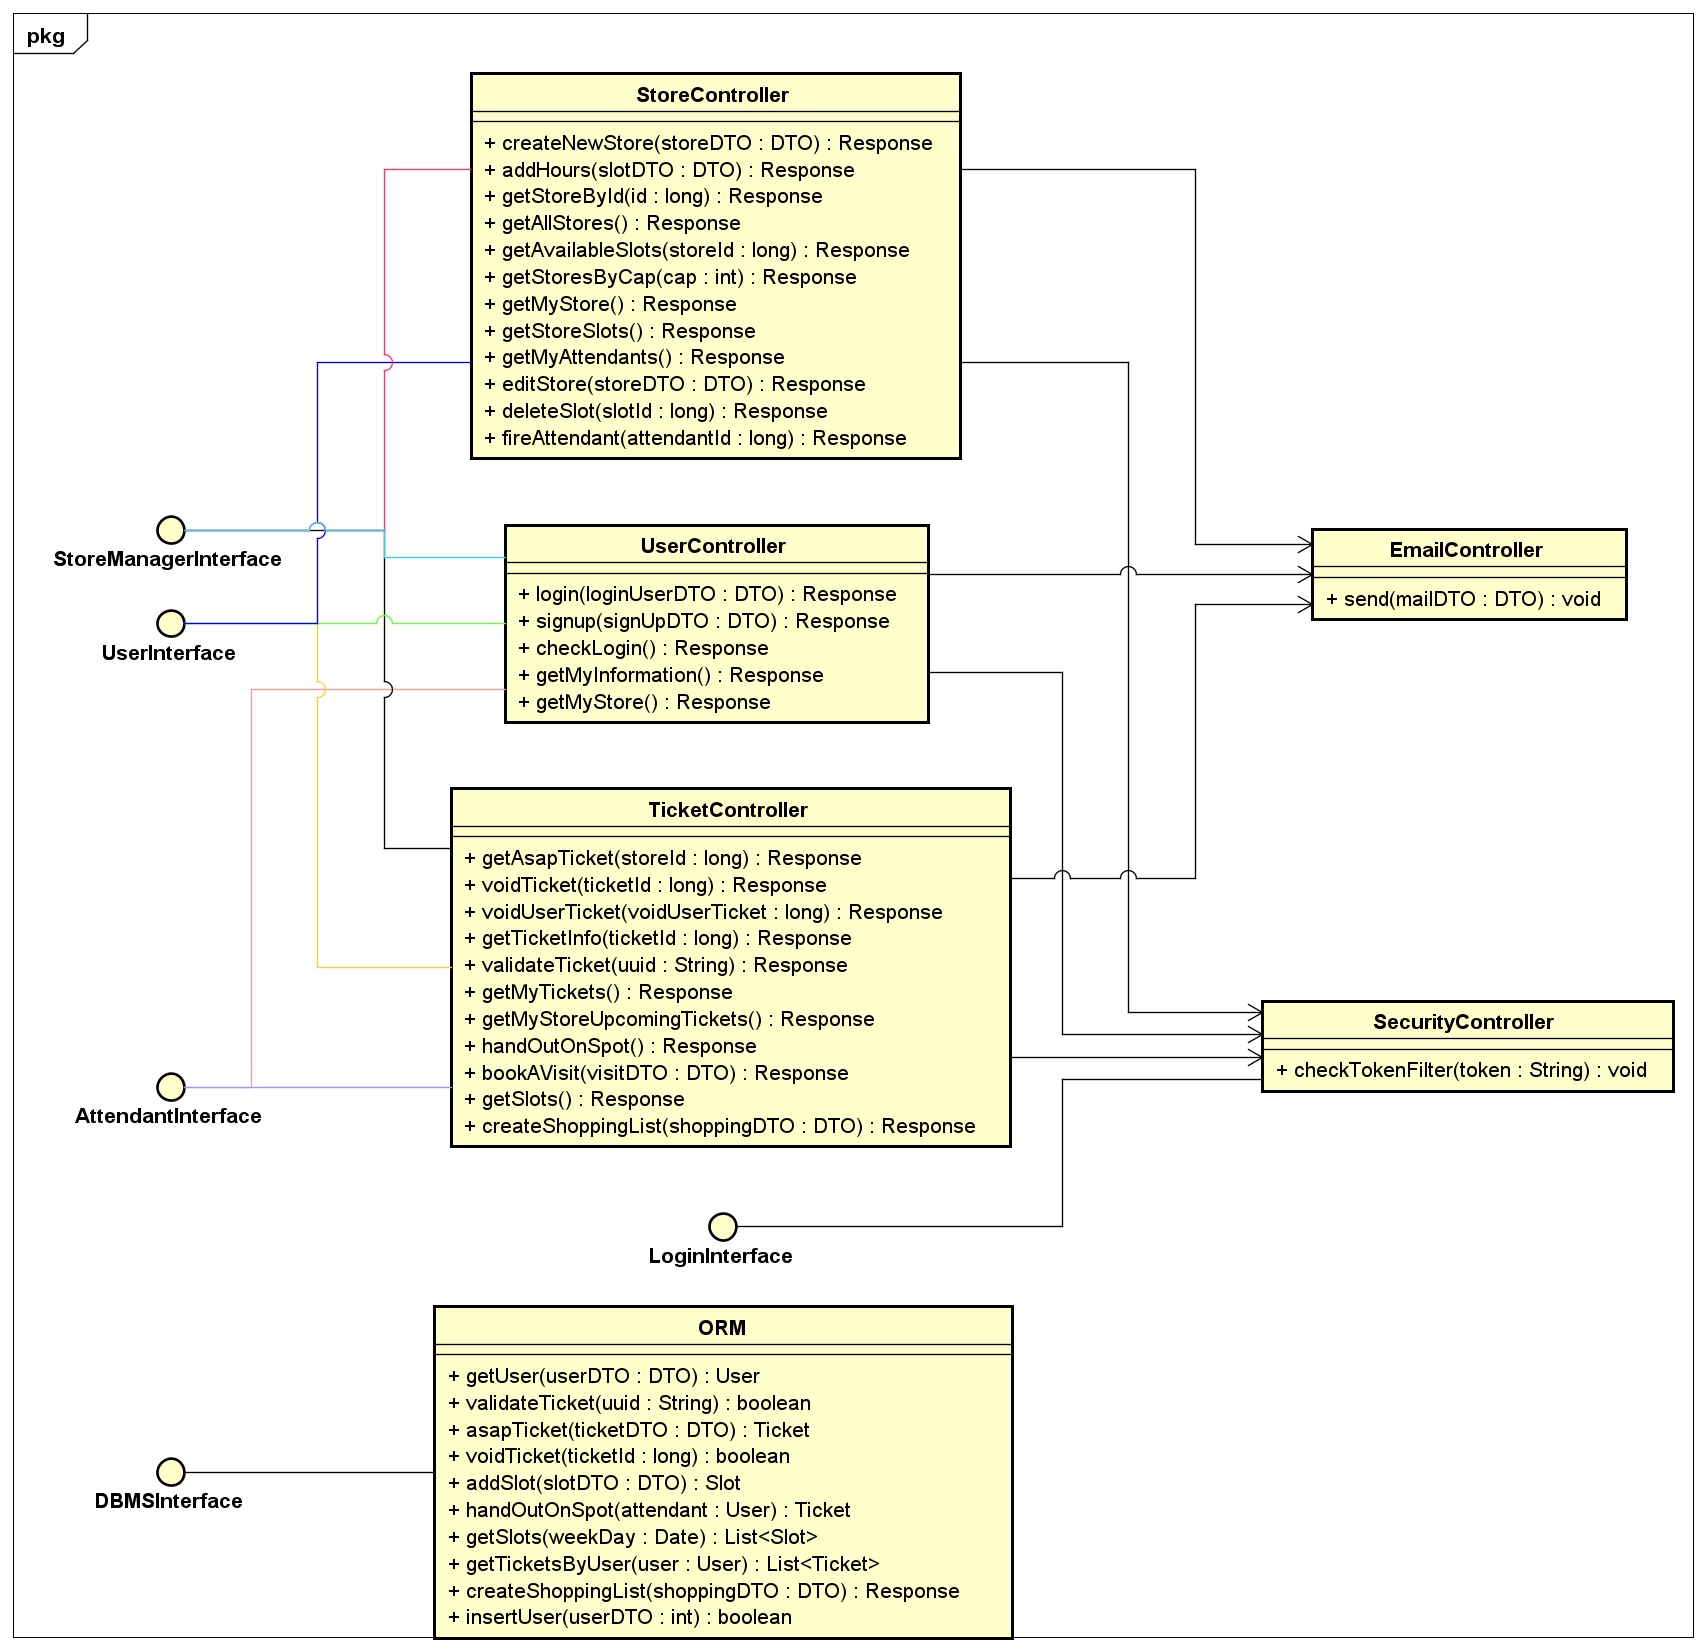
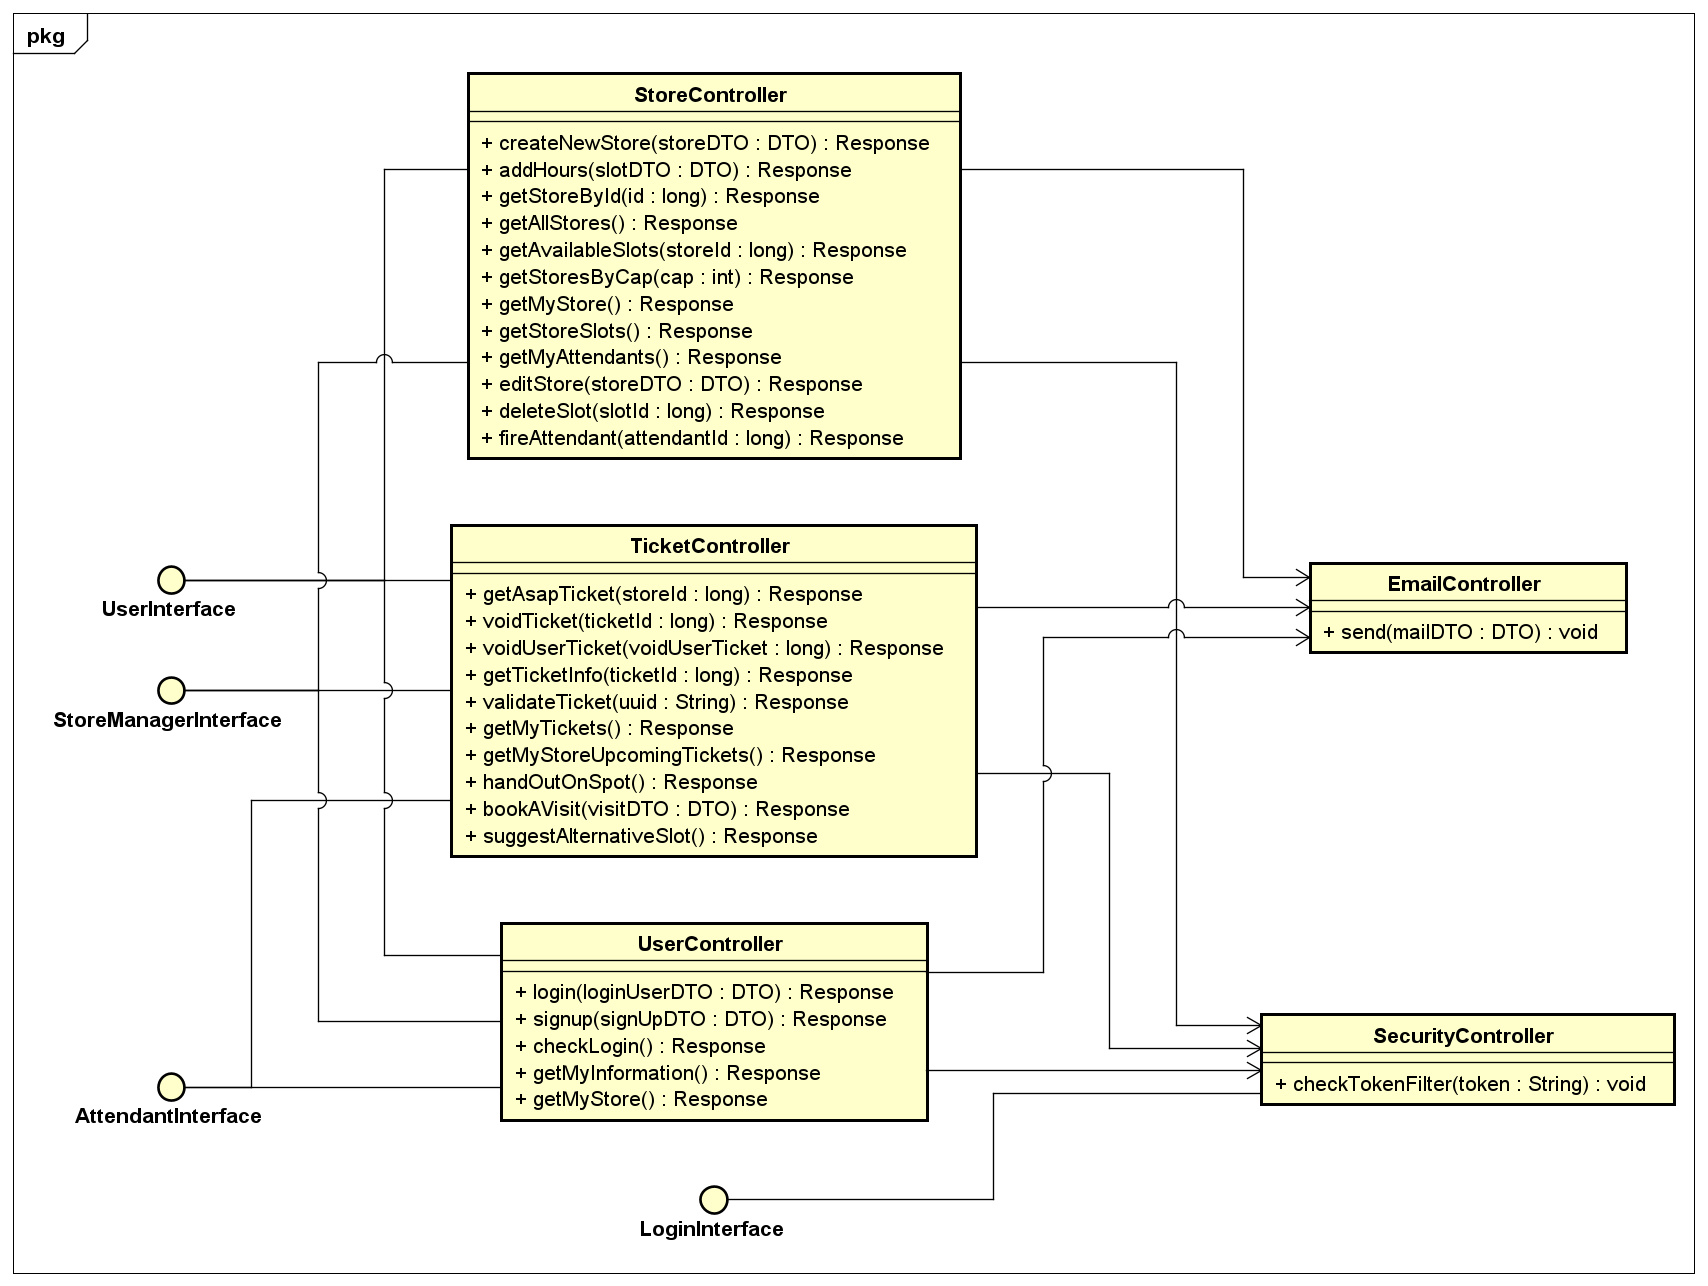
fix: others

diff --git a/DD/dd.tex b/DD/dd.tex
@@ -352,25 +352,27 @@ Starting from the beginning, the \textbf{AccessInterface} is needed in order to 
 
 Then we can see the \textbf{UserInterface}, which main goal is to achieve user functionalities, such as the ASAP or the Reservation ones. It is realized by five different controllers, one for each functionality.
 \begin{itemize}
-    \item \textbf{ASAPController}: it manages the ASAP request sent by the user and returns a valid response with the booked slot or an error.
-    \item \textbf{ReservationController}: same as above, but specifically designed for the \textit{Book a visit} functionality.
-    \item \textbf{AlternativeSlotRecommender}: it calculates the best alternative slot and returns them back to the user.
-    \item \textbf{QRCodeGenerator}: it manages the creation of the QRCode, when the user confirm the given (or chosen) slot.
-    \item \textbf{Notification}: it manages the feature of periodic notification, sending to the user a message when it is almost time to go.
+    \item \textbf{UserController}: it manages the operations w.r.t. the user interface. In fact, it contains the login and signup methods, toghether with all the useful other methods in order to handle the interaction with him. For example, getMyInformation() returns the serialized user object with some information useful for a client computation (e.g. username, role, etc.).
+    \item \textbf{StoreController}: in the case of the user, it simply contains methods in order to retrieve a list of stores relying on city or cap. It can also retrieve a complete list of stores. Finally, it also contains methods for retrieving the first available slot (given a store id) or other information about a specific store.
+    \item \textbf{TicketController}: it manages the process of asap or book a visit ticket retrieving, which will be used by the customers in order to plan their visit to the shop. It also contains a method to void a ticket given its id.
+    \item \textbf{SecurityController}: it manages the correct authorization of the user operations. In fact, through a correct tagging of them, methods can be defined only for users who have a specific role.
 \end{itemize}
 
 Then we have a store attendant interface, which main features are realized through different controllers.
 \begin{itemize}
-    \item \textbf{QRCodeValidationController}: it manages the process of QRCode validation at the entrances of the store. It receives the data sent from the attendant's mobile device and processes them in order to send him a response, which can be valid (so the customer can enter the store) or not.
-    \item \textbf{GenerateOnSpot}: it manages the creation of a booking, held by the attendant from a proper desk. It simply receives the request from the attendant's device and computes a valid booking slot, sending it back to the attendant.
+    \item \textbf{UserController}: it manages the operations w.r.t. the attendant interface. In fact, it contains the login and signup methods, toghether with all the useful other methods in order to handle the interaction with him. For example, getMyInformation() returns the serialized user object with some information useful for a client computation (e.g. username, role, etc.).
+    \item \textbf{TicketController}: in the attendant case, this controller manages the validation process of a ticket and gives the possibility of voiding an existent ticket. The validation method expects a ticket unique id (on the client it would be represented under a QR Code form) and check if it is valid. In this case, a positive status code is returned.
+    \item \textbf{SecurityController}: it manages the correct authorization of the attendant operations. In fact, through a correct tagging of them, methods can be defined only for users who have a specific role.
 \end{itemize}
 
-Finally, we have the \textbf{StoreAdminInterface}, which permits to each store manager to edit all the information about the shop. This job is done through different methods:
+Finally, we have the \textbf{StoreManagerInterface}, which permits to each store manager to edit all the information about the shop. This job is done through different methods:
 \begin{itemize}
-    \item \underline{editStoreInfo}: this method receives as input some new store information (which are basically String objects) and a StoreAdministrator object. It edits the Store object in the database if only the manager is its administrator.
-    \item \underline{editTimeslots}: this method receives as input the new time slot information and, as before, a StoreAdministrator object. It edits the information in the database.
-    \item \underline{editAttendants}: this last method receives some information about an attendant to be edited, and makes the change in the database.
+    \item \textbf{UserController}: it manages the operations w.r.t. the manager interface.
+    \item \textbf{StoreController}: it contains methods in order to manage the store. It permits creating a new store, editing an existent one, inserting new time slots (or deleting the existent ones) and to retrieve the list of active bookings. Finally, it permits to manage the store attendants (i.e. firing them from the application).
+    \item \textbf{SecurityController}: it manages the correct authorization of the attendant operations. In fact, through a correct tagging of them, methods can be defined only for users who have a specific role.
 \end{itemize}
+
+Out of every previous context, there is the email controller, which manages the feature of periodic notification, sending messages relying on active bookings. It also sends the confirmation and recovery emails for the accounts.
 
 \subsection{Logical Description of Data}
 \begin{figure}[H]
@@ -383,7 +385,7 @@ The diagram in figure\ref{er_diagram} shows a logic representation of what kind 
 
 First of all, we can see the distinction in different modules (as s. 1.1 of RASD explains) and their respectively database structure in case of deployment on organization's servers. Of course, if the buyer chooses to remain on CLup official servers, the structure will remain the entire one, limiting the functionalities store by store.
 
-The most important fact is that there are three different tables, each one for each customer type. In fact, since they contain different types of information, the most intuitive choice is the one of separating these types of data.
+Another important fact is that there is a distinction of responsibility in the user table, which provides several roles. 
 
 Then, we can see a table containing the list of all tickets, each of them associated to a specific store and (in case of \textit{Reservation} functionality) to a specific booking.
 
@@ -426,12 +428,14 @@ This choice leads to a higher deployment effort but also to a lower hardware upg
 
 Once split, the system requires a load balancer in order to correctly redirects the incoming requests to the node with the lowest workload.
 
-\subsubsection{Thin client and fat server}
-This architecture consists of keeping as low information as possible on client side. It means that the business logic resides only on server side.
-
-The minimum requirement of this choice is a stable connection between the parts; otherwise the application would not work as expected.
-
+\subsubsection{Thin and thick client and fat server}
+The thin client will be the web application.\\
+This architecture consists of keeping as low information as possible on client side. It means that the business logic resides only on server side.\\
+The minimum requirement of this choice is a stable connection between the parts; otherwise the application would not work as expected.\\
 Of course, the main advantage of choosing this implementation style is that the client machine is not required to have an high computational power.
+
+Instead, in the case of mobile application, the best choice is to save useful information on a local database, in order to avoid continuos requests to the server (less computational load) and also to keep information even when the Internet connection is not available. 
+In this second case it is said to be a thick client.
 
 \subsubsection{Adoption of IdP Providers}
 We decided to adopt some external IdP providers (such as Facebook, Google, etc.) in order to simplify the process of user registration, without asking him any additional information.
@@ -507,49 +511,51 @@ This section will shown the traceability between requirements and modules descri
 \begin{itemize}
     \item \textbf{R1:} The system allows registered users to select the store where they want to shop
           \begin{itemize}
-              \item \textbf{Login Handler}: this module allows registered users to select a store if they provide a correct combination of username and password.
-              \item \textbf{ASAP Handler} \textit{or} \textbf{Reservation Handler:} this module allows to select a store either in case of ASAP functionality choice or Reservation functionality choice.
+              \item \textbf{User Manager}: in order to login or sign up.
+              \item \textbf{Store Manager}: in order to choose a store.
+              \item \textbf{Ticket Manager}: in order to retrieve or book a ticket.
           \end{itemize}
     \item \textbf{R2:} The system allows users to retrieve a queue number
           \begin{itemize}
-              \item \textbf{ASAP Handler}
-              \item \textbf{Generate on spot:} this module allows people who are not registered to CLup service to be queued up manually by the store attendants.
+              \item \textbf{Store Manager}: in order to choose a store.
+              \item \textbf{Ticket Manager}: in order to retrieve or book a ticket or to use the handle on spot functionality.
           \end{itemize}
     \item \textbf{R3:} The system generates a QR Code associated to the ticket
           \begin{itemize}
-              \item \textbf{QRCode Generator:} this component allows the QRCode to be generated from the ticket id.
+              \item \textbf{Ticket Controller}: it simply returns a unique id to the client, which has then to show the information under form of QR Code.
           \end{itemize}
     \item \textbf{R4:} The system allows Store Administrators to add GPS Position and opening hours of the store
           \begin{itemize}
-              \item \textbf{Store Management:} this module allows store administrator to edit all the information about their stores.
+              \item \textbf{Store Manager}: this module allows store administrator to edit all the information about their stores.
           \end{itemize}
     \item \textbf{R5:} The system allows Store Attendants to register with their attendant code
           \begin{itemize}
-              \item \textbf{Sign Up:} this module allows the three types of users to register to the platform of CLup.
+              \item \textbf{User Manager}: this module allows the three types of users to register to the platform of CLup.
           \end{itemize}
     \item \textbf{R6:} The system allows users to select a day/time slot from the available ones
           \begin{itemize}
-              \item \textbf{Reservation Handler:} this module allows to accomplish to book a visit functionality.
+              \item \textbf{Store Manager}: in order to choose a store.
+              \item \textbf{Ticket Manager} this module allows to accomplish to book a visit functionality given a store id.
           \end{itemize}
     \item \textbf{R7:} The system allows users to add a list of products (categories) to purchase and the duration time of the visit
           \begin{itemize}
-              \item \textbf{Reservation Handler}
+              \item \textbf{Ticket Manager}
           \end{itemize}
     \item \textbf{R8:} The system computes a prediction of expected time duration of a customer's visit
           \begin{itemize}
-              \item \textbf{AlternativeSlotRecommender} this component lets the system suggests alternative choices relying on people past bookings.
+              \item \textbf{Alternative Slot Recommender} this component lets the system suggests alternative choices relying on people past bookings.
           \end{itemize}
     \item \textbf{R9:} The system recommends alternative day/time slots or store/chains to a user
           \begin{itemize}
               \item \textbf{Alternative slot recommender}
           \end{itemize}
-    \item \textbf{R10:} The system takes note about the actual queue number
+    \item \textbf{R10:} The system takes note about the actual in-queue tickets
           \begin{itemize}
-              \item \textbf{ASAP Handler} \textit{or} \textbf{Reservation Handler}
+              \item \textbf{Ticket Manager}
           \end{itemize}
     \item \textbf{R11:} The system notifies the user when its queue number is going to be called
           \begin{itemize}
-              \item \textbf{Notification Handler:} this module triggers an action when a number is going to be called and informs the user through a notification.
+              \item \textbf{Email Manager}: this module triggers an action when a number is going to be called and informs the user through an email notification. On client side, it would be done by an integrated mobile app behavior.
           \end{itemize}
 \end{itemize}
 
@@ -583,7 +589,7 @@ The following table presents the functionalities described in the RASD document 
         \begin{tabular}{ | c |c | c | c |}
             \hline
             \textbf{Functionality} & \textbf{Module} & \textbf{Importance for customer} & \textbf{Difficulty} \\ \hline
-            Sign Up and Login      & 1 (MVP)         & Low                              & Low                 \\ \hline
+            Sign Up and Login      & 1 (MVP)         & High                             & Low                 \\ \hline
             ASAP                   & 1 (MVP)         & High                             & Medium              \\\hline
             Make a reservation     & 2               & Medium                           & High                \\\hline
             Hand out on spot       & 1 (MVP)         & High                             & Medium              \\\hline
@@ -599,11 +605,11 @@ All the modules described in this document rely on DBMS of the internal database
 According to the table\ref{implementation_precedences} we decided to implement the functionalities relying on their importance.
 
 \begin{itemize}
-    \item \textbf{ASAP:} for this functionality it is necessary to implement and execute tests on the ASAPHandler and the QRCode Generation component. The ASAP handler is tested through an appropriate choice of store and through a check about the assigned time slot. The QRCode Generation is tested through a check on the content of it, which can also test the functionality of the QRCode Validation component.
-    \item \textbf{Hand out on spot:} this functionality is managed by the GenerateOnSpot component, on which the unit tests will be made. They will check that the module manages in a correct way all the requests of ticket that are made on spot, by an attendant of the considered store. Finally, an integration test with the DBMS is made.
-    \item \textbf{Make a reservation:} this module is an extension of the MVP one. It exploits some components, which are the ReservationHandler, AlternativeSlotRecommender, QRCode Validation and QRCode Generation ones. They will need some unit tests and, in particular, the ReservationHandler one also needs an integration test with the DBMS.
-    \item \textbf{SignUp and Login:} the two functionalities are strictly related, since the Login result is somehow affected by the SignUp function. So it would be a good idea to implement the SignUpHandler first and then the LoginHandler and then execute a unit and integration test. The test of the SignUpHandler requires a demo of the DBMS containing some accounts. In fact it’s necessary to test the correct call to the DBMS functions in order to retrieve the account already registered and then it is important to check the module recognize when a user is already registered or if the sent data presents some inconsistencies. Relying on the DBMS functions, an integration test is required to check the correct communication between the module and DBMS. These tests must also be executed for the LoginHandler because it retrieves data from the database to execute credentials check.
-    \item \textbf{Periodic notifications:} this functionality is accomplished through the NotificationHandler, on which some unit tests are needed to be executed. To properly make this tests, a demo scenario is needed, in which a customer retrieves a ticket (through, for example, the ASAP functionality) and the system triggers because the ticket is going to be called.
+    \item \textbf{SignUp and Login:} the two functionalities are strictly related, since the Login result is somehow affected by the SignUp function. So it would be a good idea to implement the sign up method first and then the login one and then execute a unit and integration test. The test of the User Manager requires a demo of the DBMS containing some accounts. In fact it’s necessary to test the correct call to the DBMS functions in order to retrieve the account already registered and then it is important to check the module recognize when a user is already registered or if the sent data presents some inconsistencies. Relying on the DBMS functions, an integration test is required to check the correct communication between the module and DBMS.
+    \item \textbf{ASAP:} for this functionality it is necessary to implement and execute tests on the Store Manager and the Ticket Manager components. They will be both tested through an automated test class. In fact, it is necessary to create a store, add a time slot and, finally, retrieve a ticket through different controller calls.
+    \item \textbf{Hand out on spot:} this functionality is managed by the Ticket component, on which the unit tests will be made. They will check that the module manages in a correct way all the requests of ticket that are made on spot, by an attendant of the considered store. Finally, an integration test with the DBMS is made.
+    \item \textbf{Make a reservation:} this module is an extension of the MVP one. It exploits some components, which are the Store Manager, Ticket Manager and Alternative Slot Recommender ones. They will need some unit tests and, in particular, the Ticket Manager one also needs an integration test with the DBMS.
+    \item \textbf{Periodic notifications:} this functionality is accomplished through the Email Manager, on which some unit tests are needed to be executed. To properly make this tests, a demo scenario is needed, in which a customer retrieves a ticket (through, for example, the ASAP functionality) and the system triggers because the ticket is going to be called.
 \end{itemize}
 
 \subsection{Clarification on component integration}
@@ -628,7 +634,7 @@ After this, we have to integrate the API communication between the S2B and the e
     \end{figure}
 \end{center}
 
-At this point it is possible to integrate the Client Manager, which permits to the end user to exploit all the functionalities, as shown in figure\ref{client_manager}.
+At this point it is possible to integrate the Client Manager, which permits to the end user to exploit all the functionalities, as shown in figure \ref{client_manager}.
 
 \begin{center}
     \begin{figure}[H]
